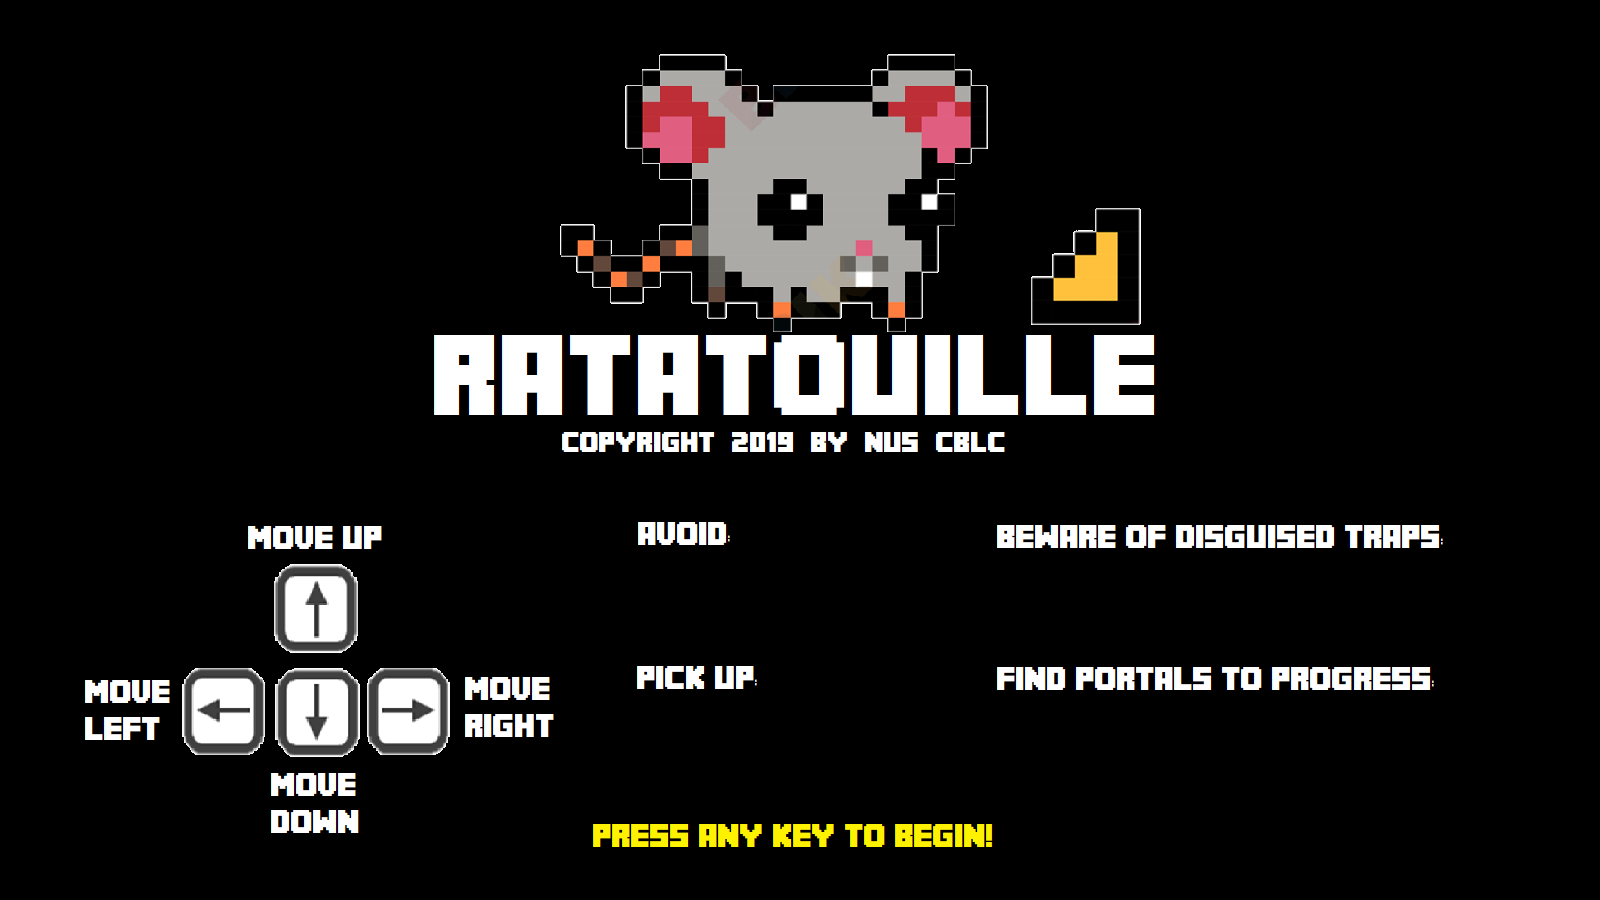
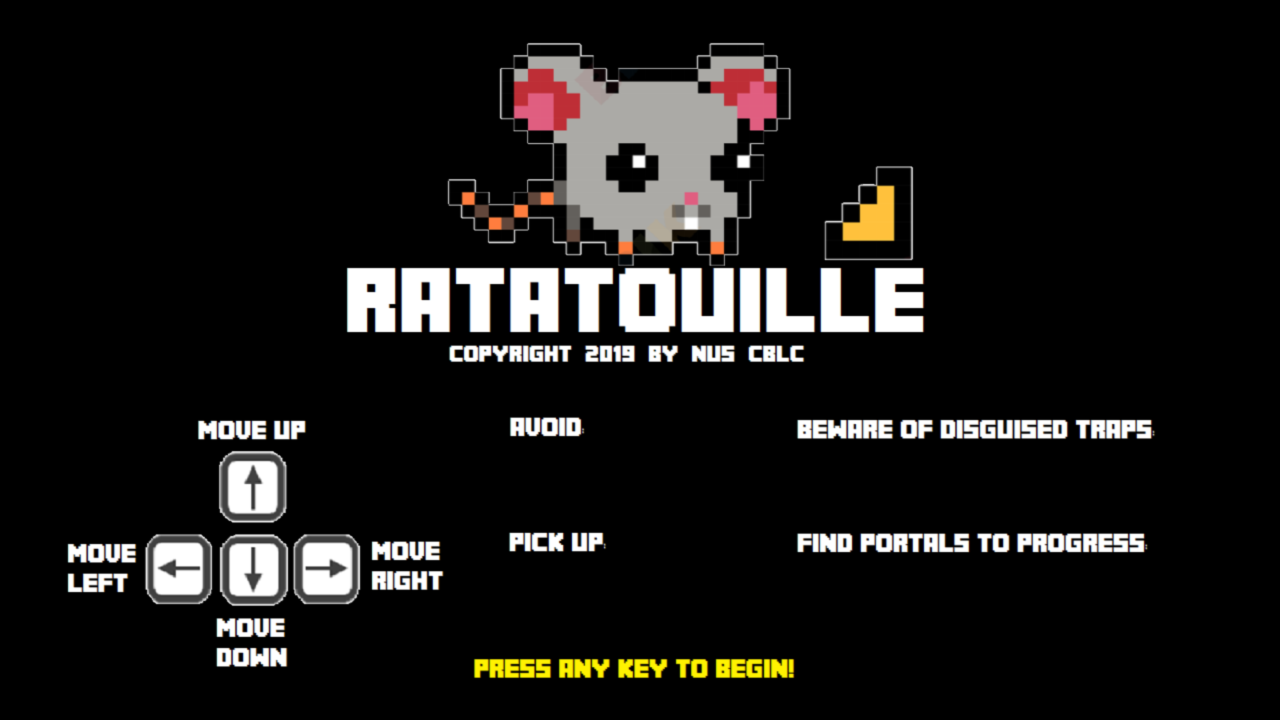
update

diff --git a/Maze_v5.py b/Maze_v5.py
@@ -5,7 +5,7 @@ import pygame, os, random, math, sys
 pygame.init()
 
  # size of the game window
-win_width, win_height = 1024, 768
+win_width, win_height = 1280, 720
 
 
 # win_size = (win_width, win_height)
@@ -592,7 +592,7 @@ class MiniWall(pygame.sprite.Sprite):
         self.rect.y = y
 
 class MiniPlayer (object):
-    def __init__(self, player_abs_x = 0, player_abs_y = 0, win_width = 1024, win_height = 768):
+    def __init__(self, player_abs_x = 0, player_abs_y = 0, win_width = 1280, win_height = 720):
 
         super().__init__()
 
@@ -649,7 +649,7 @@ def create_instances():
     fog_group.add(Fog())
 
     miniMap = MiniMap(win_width, win_height)
-    miniPlayer = MiniPlayer()
+    miniPlayer = MiniPlayer(win_width = 1280, win_height = 720)
     miniWalls_group = pygame.sprite.Group()
 
 def run_viewbox(player_x, player_y):
